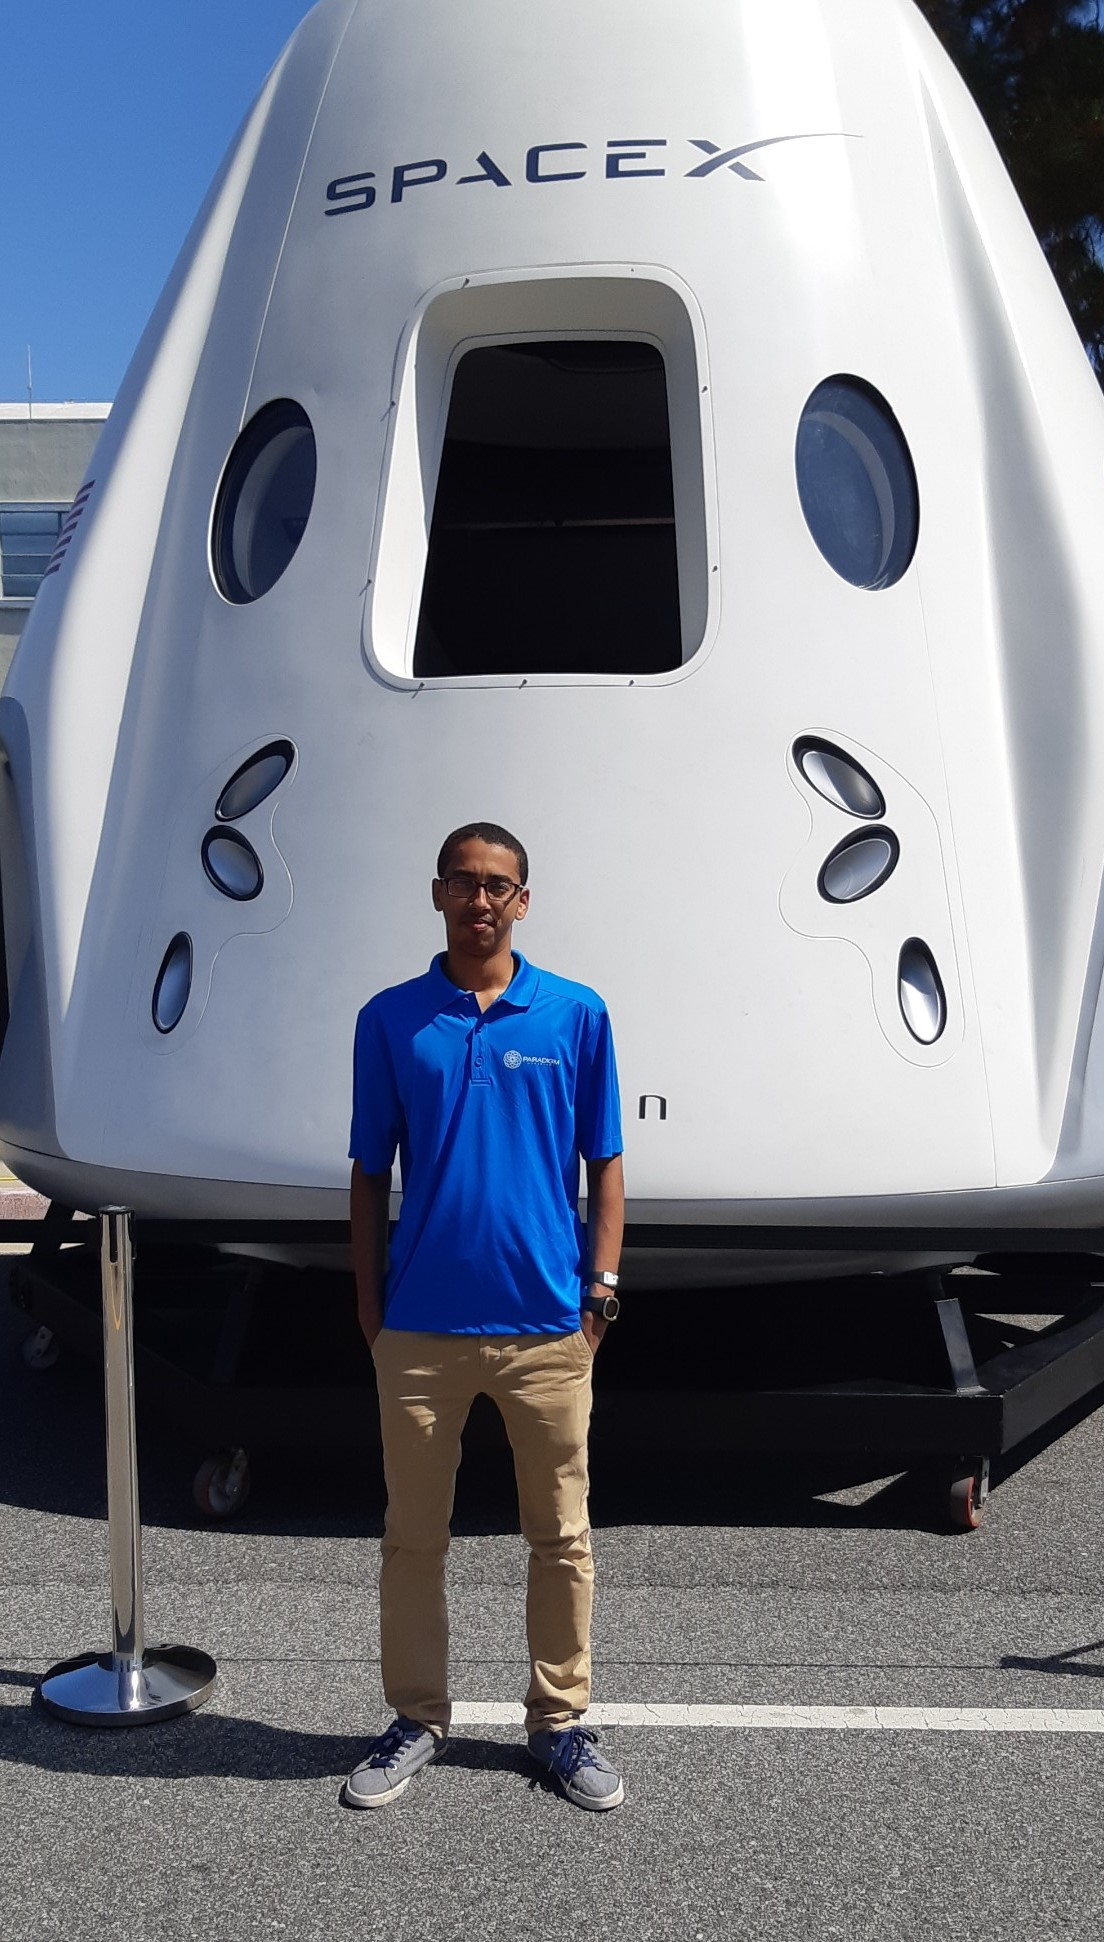
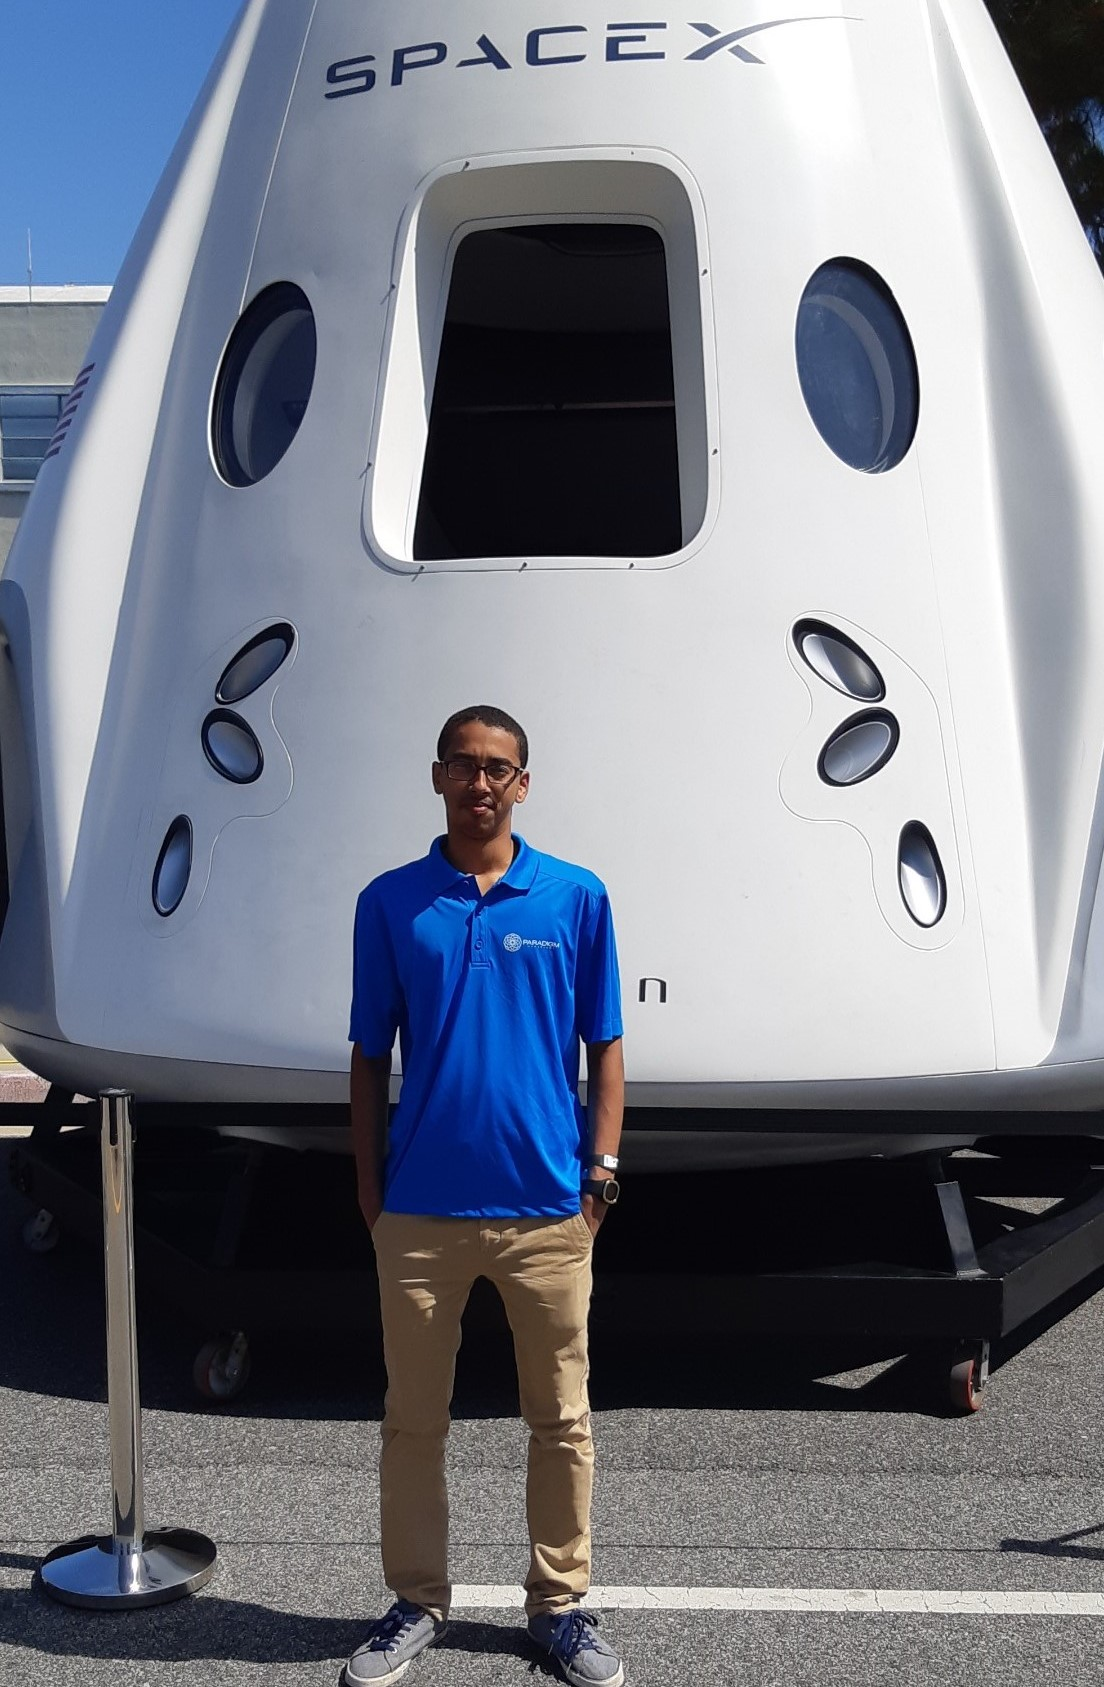
Adjust padding for images

diff --git a/index.html b/index.html
@@ -65,7 +65,7 @@
 						<li>
 							<div class = "item-title"> TEK Basketball: a project at MakeUofT2020</div>
 							<div class = "flex-column">
-								<img src="/static/img/make uoft kamal.jpg"  style ="padding-bottom: 0.5em"/>
+								<img src="/static/img/make uoft kamal.jpg"  style ="padding-bottom: 0.5em; padding-left: 3em; padding-right: 3em;"/>
 								<img src="/static/img/make uoft kamal 2.jpg" />
 							</div>
 							<ul class="bullet-points">
@@ -105,11 +105,11 @@
 					<div class = "item-1 extracurricular-item">
 						<li>
 							<div class = "item-title"> <a href="https://paradigmhyperloop.com/">Paradigm Hyperloop</a></div>
-							<div class = "extracurricular-photos">
+							<div class = "flex-column">
 								<a href = "https://www.linkedin.com/posts/kamal-m-ali_hyperloop-activity-6559896607226118145-0RHK">
 									<img src="/static/img/Paradigm Pic (2).jpg" class="item-1"/>
 								</a>
-								<img src="/static/img/SpaceX.jpg" class="item-1" height="50%" width="auto"/>
+								<img src="/static/img/SpaceX.jpg" class="item-1"/>
 							</div>
 							<ul class ="bullet-points">
 								<li>Paradigm Hyperloop is a student team that designs and builds a Hyperloop Pod for the SpaceX Hyperloop Competition. </li>
